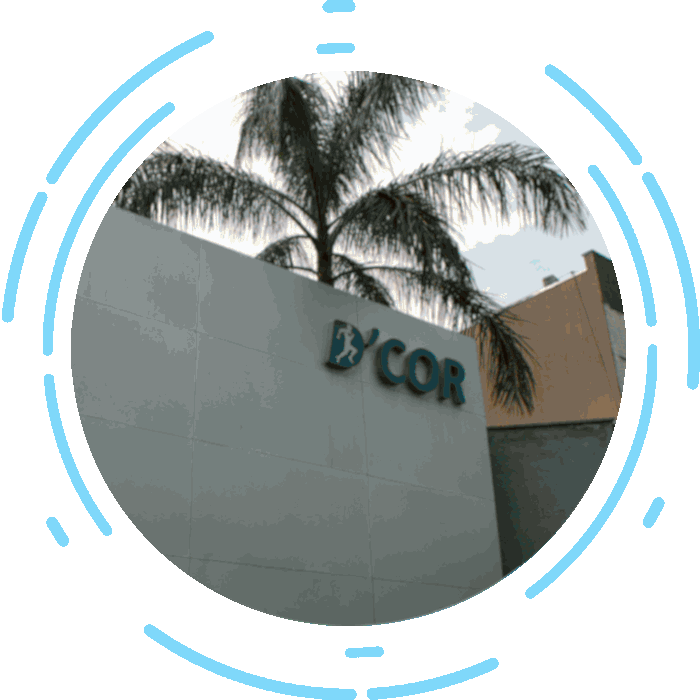
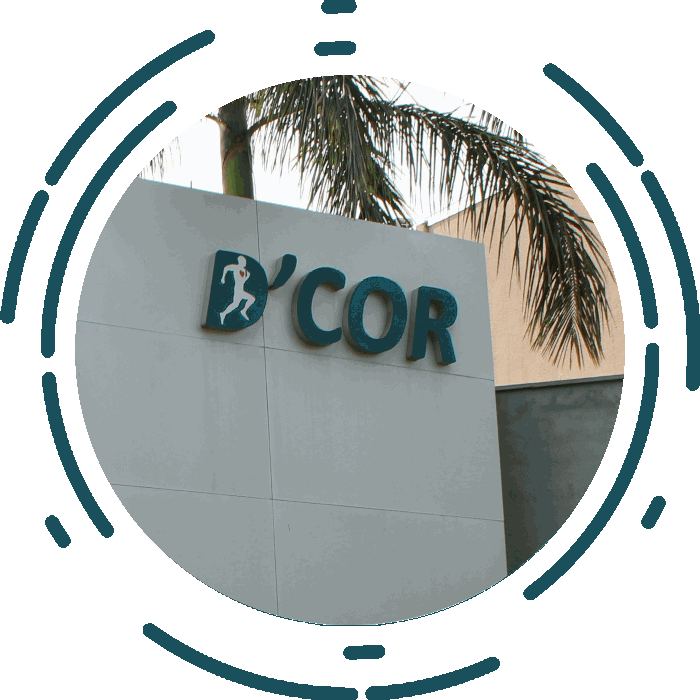
algumas alteracoes

diff --git a/src/styles.scss b/src/styles.scss
@@ -5,7 +5,7 @@ Default CSS
 =================================================*/
 $main-font-family: 'Open Sans', sans-serif;
 $optional-font-family: 'Catamaran', sans-serif;
-$main-color: #086AD8;
+$main-color: #014f8f;
 $optional-color: #10dce8;
 $white-color: #ffffff;
 $black-color: #212121;
@@ -88,7 +88,7 @@ img {
 }
 .h1, .h2, .h3, .h4, .h5, .h6, h1, h2, h3, h4, h5, h6 {
     color: $black-color;
-    text-transform: capitalize;
+    text-transform: none;
     font: {
         family: $optional-font-family;
         weight: bold;
@@ -1646,13 +1646,13 @@ Services Area CSS
         }
     }
     &.bg-fc9ba7 {
-        border: 1px dashed #fc9ba7;
+        border: 1px dashed #014f8f;
 
         .icon {
-            color: #fc9ba7;
+            color: #014f8f;
         }
         &::before {
-            background: #fc9ba7;
+            background: #014f8f;
         }
         &:hover {
             box-shadow: 0 5px 40px 0 rgba(0, 0, 0, 0.11);
@@ -1666,13 +1666,13 @@ Services Area CSS
         }
     }
     &.bg-2cdcf7 {
-        border: 1px dashed #2cdcf7;
+        border: 1px dashed #014f8f;
 
         .icon {
-            color: #2cdcf7;
+            color: #014f8f;
         }
         &::before {
-            background: #2cdcf7;
+            background: #014f8f;
         }
         &:hover {
             box-shadow: 0 5px 40px 0 rgba(0, 0, 0, 0.11);
@@ -1686,13 +1686,13 @@ Services Area CSS
         }
     }
     &.bg-009af0 {
-        border: 1px dashed #009af0;
+        border: 1px dashed #014f8f;
 
         .icon {
-            color: #009af0;
+            color: #014f8f;
         }
         &::before {
-            background: #009af0;
+            background: #014f8f;
         }
         &:hover {
             box-shadow: 0 5px 40px 0 rgba(0, 0, 0, 0.11);
@@ -1706,13 +1706,13 @@ Services Area CSS
         }
     }
     &.bg-f4d62c {
-        border: 1px dashed #f4d62c;
+        border: 1px dashed #014f8f;
 
         .icon {
-            color: #f4d62c;
+            color: #014f8f;
         }
         &::before {
-            background: #f4d62c;
+            background: #014f8f;
         }
         &:hover {
             box-shadow: 0 5px 40px 0 rgba(0, 0, 0, 0.11);
@@ -1726,13 +1726,13 @@ Services Area CSS
         }
     }
     &.bg-1e2d75 {
-        border: 1px dashed #1e2d75;
+        border: 1px dashed #014f8f;
 
         .icon {
-            color: #1e2d75;
+            color: #014f8f;
         }
         &::before {
-            background: #1e2d75;
+            background: #014f8f;
         }
         &:hover {
             box-shadow: 0 5px 40px 0 rgba(0, 0, 0, 0.11);

diff --git a/src/app/components/pages/home-four/home-four.component.html b/src/app/components/pages/home-four/home-four.component.html
@@ -90,7 +90,7 @@
             </div>
             <div class="col-lg-6 col-md-12">
                 <div class="about-tab">
-                    <h2>Qualidade e tradição em Goiânia.</h2>
+                    <h2>Qualidade e Tradição em Goiânia.</h2>
                     <div class="bar"></div>
                     <p>Pensando na sua comodidade, a D’Cor oferece os principais exames cardiovasculares em um só lugar, além de atender por diversos planos de saúde.<br/>
                         Consultas, exames cardiológicos e vasculares, cardiologia, cardiologia- arritmia e marcapasso angiologia, pneumologia, reumatologia e endocrinologia.</p>
@@ -103,7 +103,7 @@
                         <div class="tab_content">
                             <div class="tabs_item">
                                 <div class="text">
-                                    <h3>Mais de 10 Anos de tradição!</h3>
+                                    <h3>Mais de 10 anos de tradição!</h3>
                                 </div>
                                 <ul class="list">
                                     <li><i class="flaticon-tick"></i> Gerando bem estar;</li>
@@ -326,7 +326,7 @@
         <div class="row align-items-center">
             <div class="col-lg-6 col-md-12">
                 <div class="review-content">
-                    <h3>Anos de<span>Experiencia</span> ajudando <span>Sua</span> saúde</h3>
+                    <h3>Anos de <span>Experiencia</span> ajudando <span>Sua</span> saúde</h3>
                     <div class="bar"></div>
                     <p>O Cardiologista é responsável pelo diagnóstico, tratamento e acompanhamento das doenças relacionadas ao coração e ao sistema circulatório. Ele pode solicitar exames como o Holter, o MAPA, o Teste Ergométrico e o Eletrocardiograma para avaliar o estado de saúde atual do paciente, bem como para autorizar cirurgias solicitadas por outras especialidades. É também o médico capaz de realizar cirurgias como a ponte de safena, a colocação de marca-passo, entre outras.</p>
                 </div>
